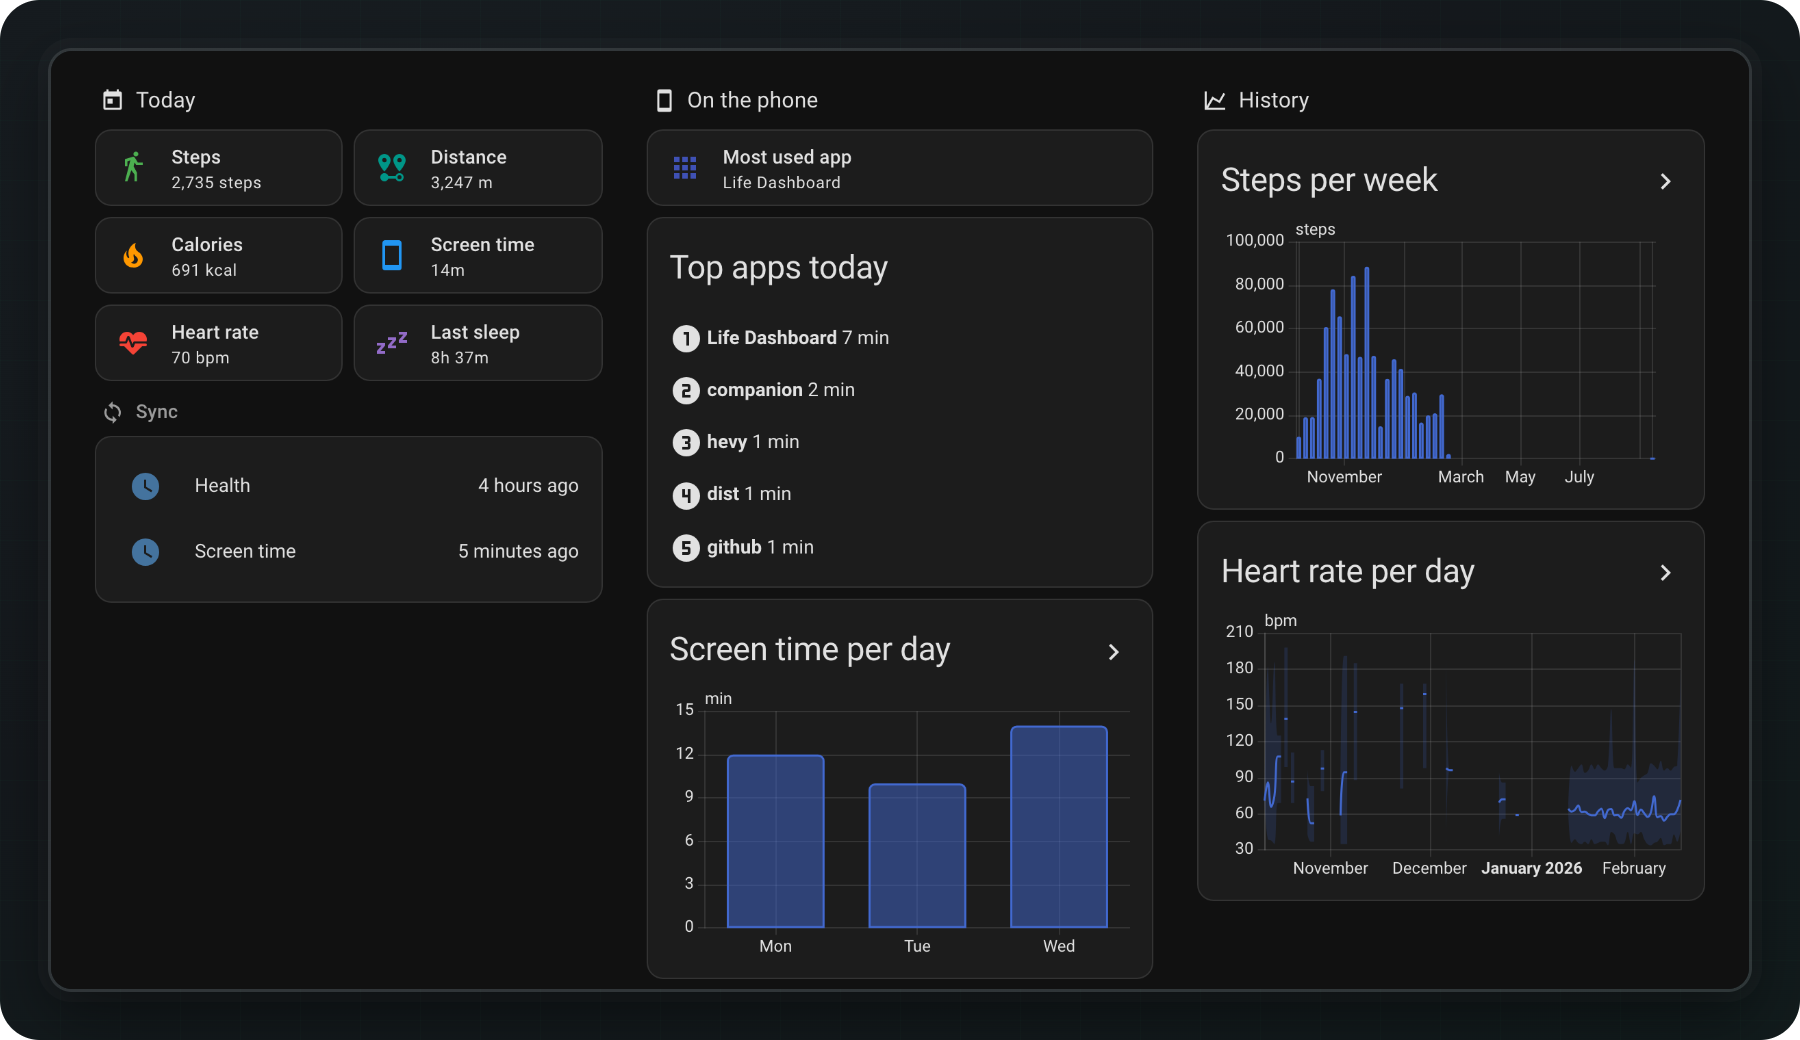
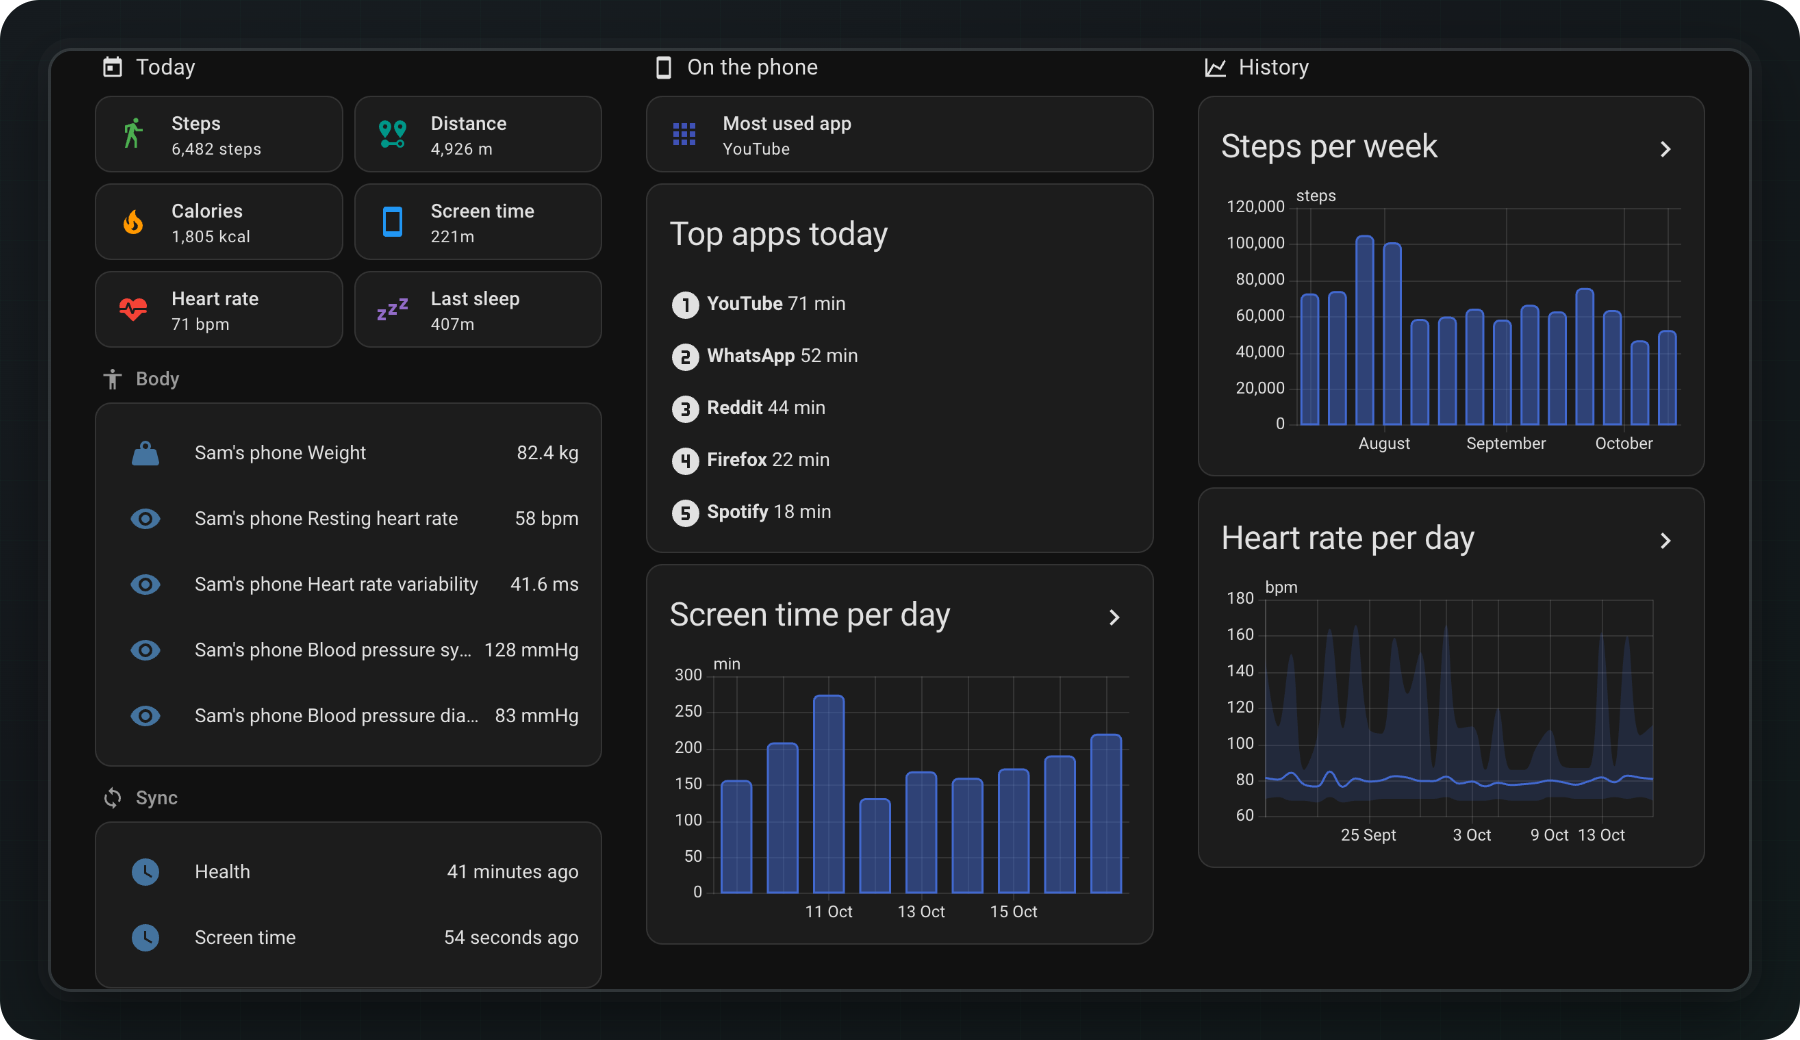
docs: The README hero shows the example dashboard on a year of generated data
The dashboard screenshot is the integration's example dashboard as shipped, on a throwaway
Home Assistant fed a year of generated data from one phone: no gap in the history, a full day
of screen time and real apps at the top. It now includes the Body section, so the hero crops
a little from the top and bottom, and the alt text names what it shows.

diff --git a/docs/brand/readme-hero-phone.html b/docs/brand/readme-hero-phone.html
@@ -4,7 +4,7 @@
   (readme-hero.html): two crops of the same dashboard screenshot, the Today tiles and the
   screen time per day card, stacked so they stay readable on a screen about 400 px wide. The README
   picks it with <picture> and a max-width media query. The crops are offsets into
-  docs/screenshots/home-assistant-dashboard.png (2480 x 1374) shown at 2837 px wide; after a
+  docs/screenshots/home-assistant-dashboard.png (2480 x 1468) shown at 2837 px wide; after a
   new screenshot, check that each crop still starts at a card edge.
 
     "/Applications/Google Chrome.app/Contents/MacOS/Google Chrome" \

diff --git a/docs/brand/readme-hero.html b/docs/brand/readme-hero.html
@@ -34,7 +34,9 @@
     border: 3px solid rgba(255,255,255,0.12);
     box-shadow: 0 24px 60px rgba(0,0,0,0.45), 0 0 0 10px rgba(255,255,255,0.025);
   }
-  .shot img { width: 100%; height: 100%; object-fit: cover; display: block; }
+  /* The screenshot is a little taller than the frame: the crop leaves the space above the
+     section headings and below the Sync card out, and keeps every card whole. */
+  .shot img { width: 100%; height: 100%; object-fit: cover; object-position: 50% 51%; display: block; }
 </style>
 </head>
 <body>

diff --git a/README.md b/README.md
@@ -59,7 +59,7 @@ On the other end, this is the Life Dashboard integration's example dashboard in 
 <p align="center">
   <picture>
     <source media="(max-width: 600px)" srcset="docs/readme-hero-phone.png">
-    <img src="docs/readme-hero.png" alt="The integration's example dashboard in Home Assistant: today's steps, distance, calories, screen time, heart rate and sleep, with charts of screen time and history" width="900">
+    <img src="docs/readme-hero.png" alt="The integration's example dashboard in Home Assistant: today's steps, distance, calories, screen time, heart rate and sleep, weight, resting heart rate and blood pressure, the top apps of the day, and charts of screen time and history" width="900">
   </picture>
 </p>
 
